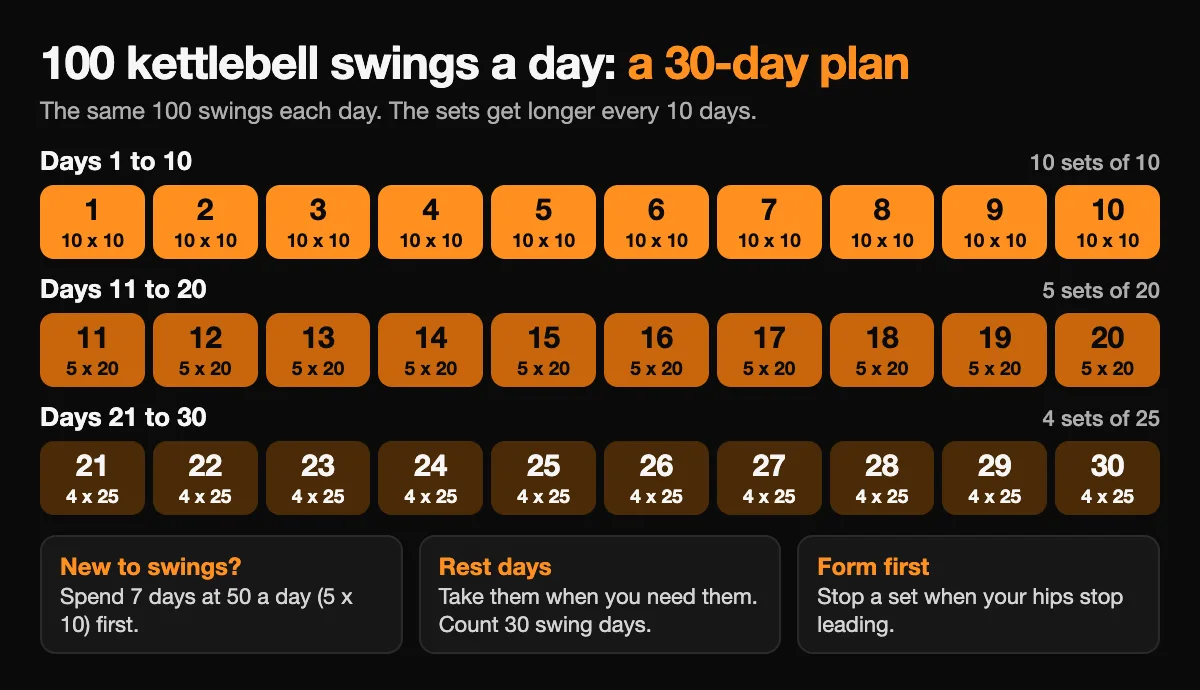
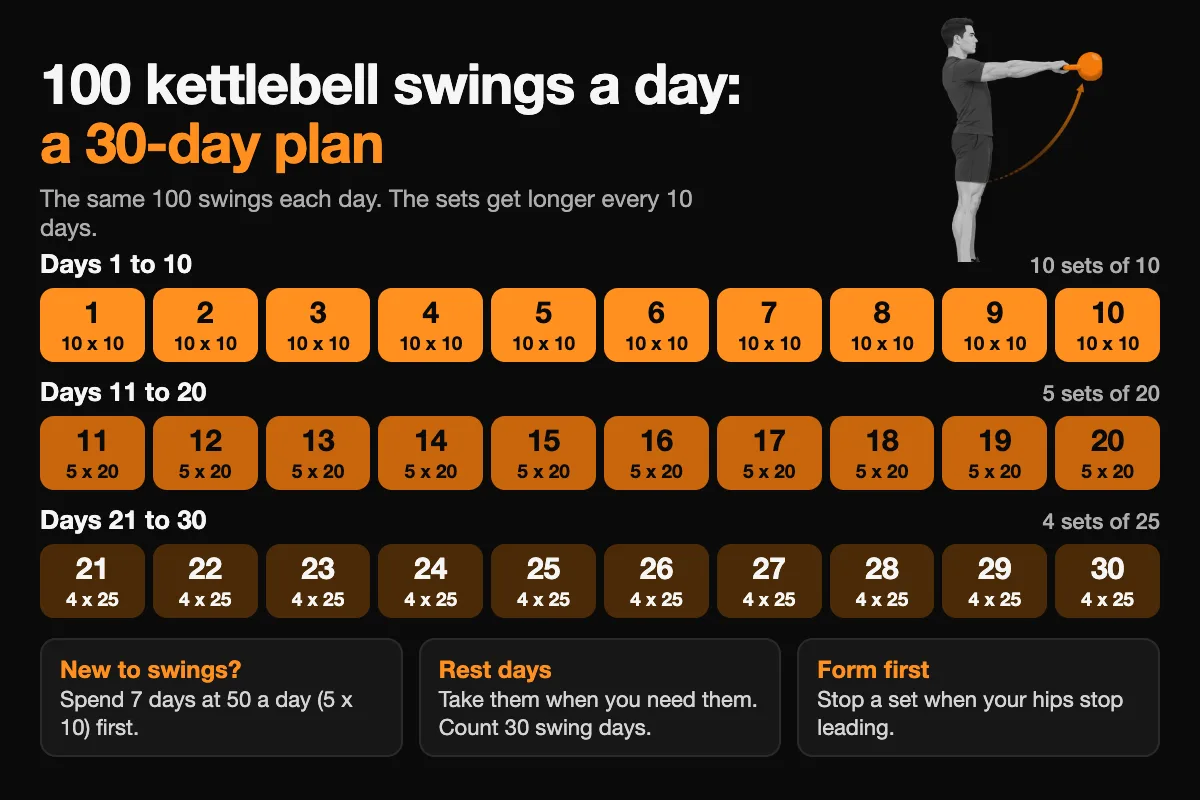
Illustrated figures for the 100-swings guide graphics (#93)
* Replace the hinge vs squat stick figures with illustrated figures

* Add illustrated figures to the 30-day plan, bell guide and share card

diff --git a/blog/100-kettlebell-swings-a-day/index.html b/blog/100-kettlebell-swings-a-day/index.html
@@ -82,7 +82,7 @@
             </div>
 
             <figure class="hero-figure">
-                <img src="plan-calendar.webp" width="1200" height="690" style="aspect-ratio: 1200 / 690" alt="A 30-day calendar for 100 kettlebell swings a day: days 1 to 10 are 10 sets of 10, days 11 to 20 are 5 sets of 20, and days 21 to 30 are 4 sets of 25" fetchpriority="high">
+                <img src="plan-calendar.webp" width="1200" height="800" style="aspect-ratio: 1200 / 800" alt="An athlete at the top of a kettlebell swing above a 30-day calendar for 100 kettlebell swings a day: days 1 to 10 are 10 sets of 10, days 11 to 20 are 5 sets of 20, and days 21 to 30 are 4 sets of 25" fetchpriority="high">
                 <figcaption>My 30-day plan: the same 100 swings every day, with longer sets every 10 days.</figcaption>
             </figure>
 
@@ -113,7 +113,7 @@
 
                 <h2 id="weight">What weight for 100 kettlebell swings a day?</h2>
                 <figure>
-                    <img src="bell-weight-guide.webp" width="1200" height="560" style="aspect-ratio: 1200 / 560" alt="A guide to choosing a kettlebell weight for 100 swings a day: signs of the right bell, signs of a bell that is too heavy, and two reference points" loading="lazy">
+                    <img src="bell-weight-guide.webp" width="1200" height="760" style="aspect-ratio: 1200 / 760" alt="A guide to choosing a kettlebell weight for 100 swings a day: an athlete swinging the right bell to chest height, an athlete leaning back with a bell that is too heavy, and two reference points" loading="lazy">
                     <figcaption>Choose by how the swing looks and feels, not by a number.</figcaption>
                 </figure>
                 <p>There is no one weight. Here are two reference points:</p>
@@ -125,7 +125,7 @@
 
                 <h2 id="form">Form: hinge, do not squat</h2>
                 <figure>
-                    <img src="hinge-vs-squat.webp" width="1200" height="600" style="aspect-ratio: 1200 / 600" alt="Two stick figures: a hinge with the hips back and a flat back, marked right, and a squat with the knees far forward and an upright torso, marked wrong" loading="lazy">
+                    <img src="hinge-vs-squat.webp" width="1200" height="720" style="aspect-ratio: 1200 / 720" alt="Side view of a kettlebell swing done two ways. Right: a hip hinge with the hips back, a flat back and near-vertical shins. Wrong: a squat with an upright torso, low hips and the knees far forward." loading="lazy">
                     <figcaption>The hips move the bell. The knees bend only a little.</figcaption>
                 </figure>
                 <p>Tom's Guide says the swing comes from your legs and hips, not your arms, and that it is not a squat. Use this checklist:</p>
